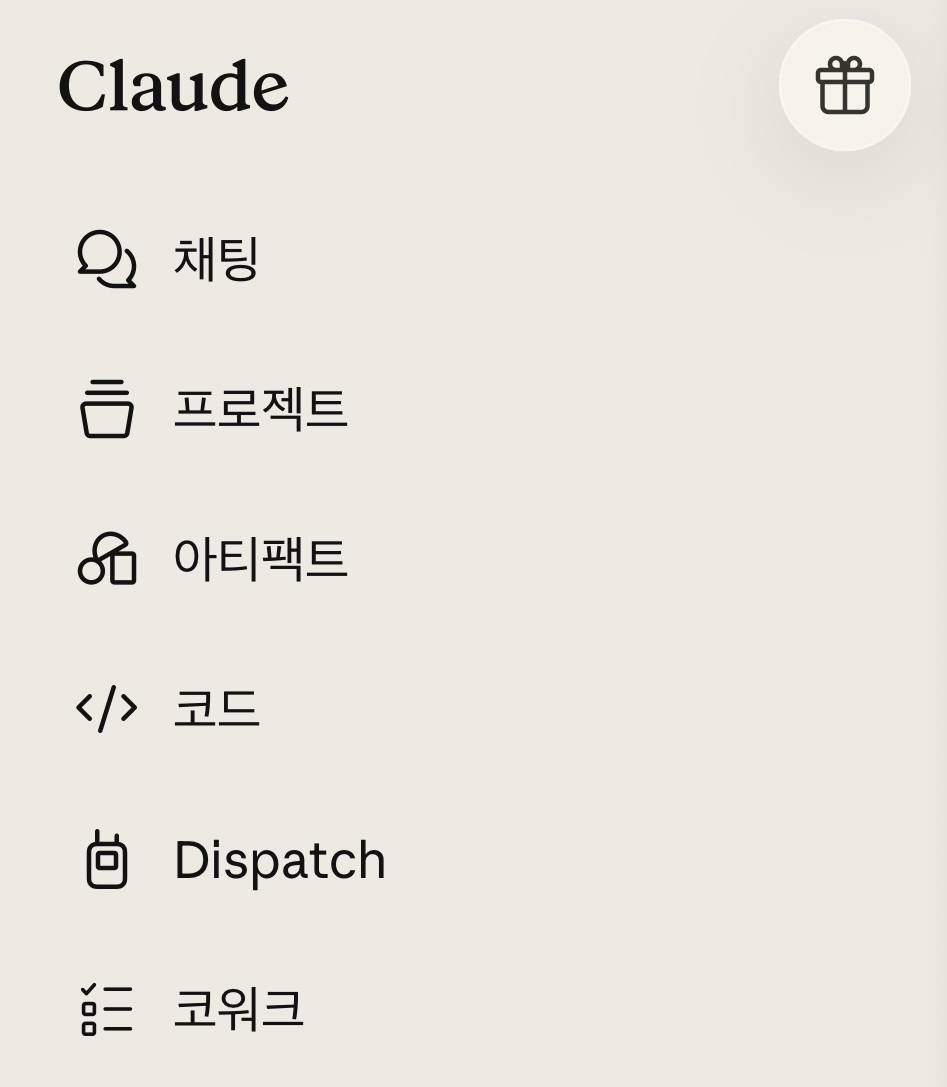
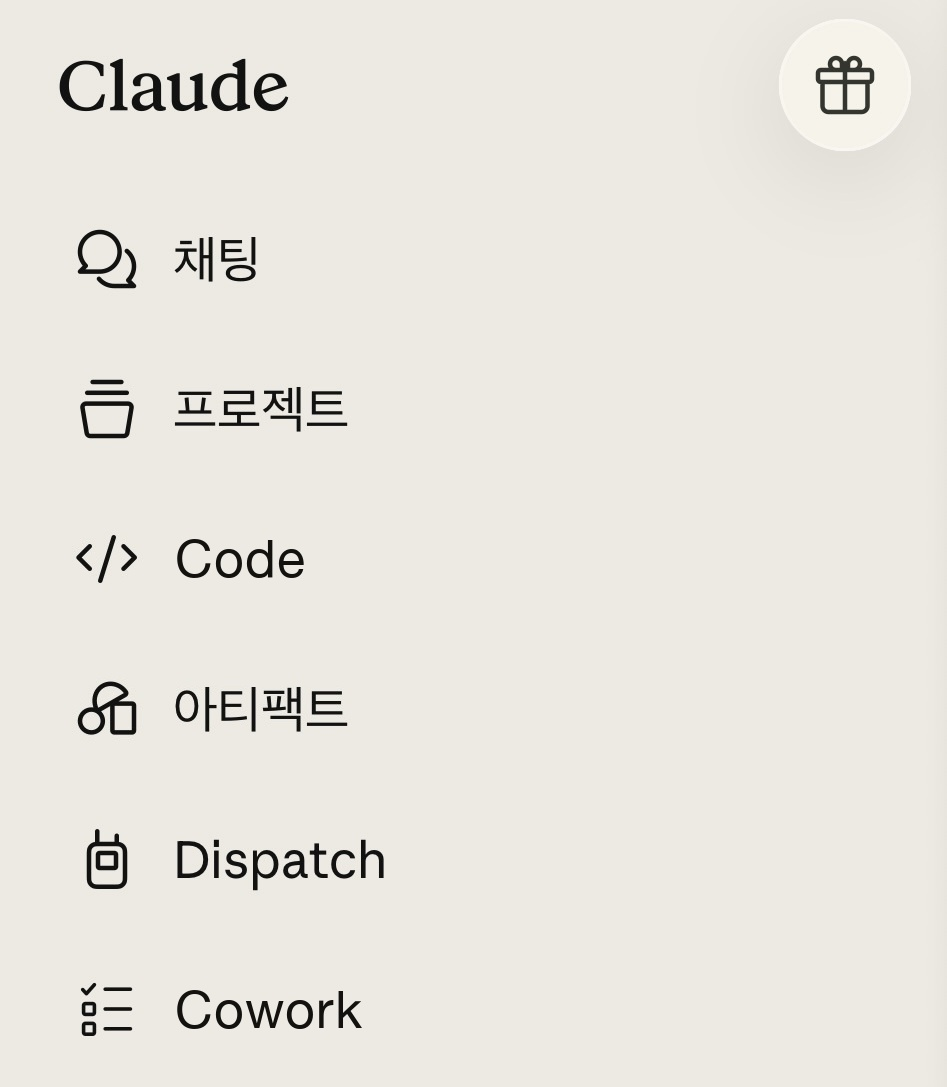
claude-mobile 메뉴 순서를 채팅·프로젝트·Code·아티팩트·Dispatch·Cowork로 변경, 메뉴 캡처 재구성

diff --git a/docs/claude-mobile.html b/docs/claude-mobile.html
@@ -16,7 +16,7 @@
     <meta name="twitter:description" content="비즈니스 리더를 위한 Claude·ChatGPT 완전 정복. 프롬프트에서 하네스·루프까지, 대화를 실행으로 바꾸는 5단계. Hermes까지 다루는 실전 가이드">
     <meta name="twitter:image" content="https://airoasting.github.io/claude_guide/assets/thumbnails/thumbnail.png">
     <title>스마트폰에서 Claude 쓰기 | AI ROASTING</title>
-    <meta name="description" content="Claude 모바일 앱의 채팅·프로젝트·아티팩트·코드·Dispatch·코워크 여섯 메뉴를 한 장으로 정리했습니다. 스마트폰에서 일을 맡기고 결과만 받는 방법.">
+    <meta name="description" content="Claude 모바일 앱의 채팅·프로젝트·Code·아티팩트·Dispatch·Cowork 여섯 메뉴를 한 장으로 정리했습니다. 스마트폰에서 일을 맡기고 결과만 받는 방법.">
     <style>
         @font-face {
             font-family: 'Pretendard';
@@ -1806,7 +1806,7 @@
     </a>
     <a href="#sec-code" data-sec="sec-code">
         <span class="sm-num">3</span>
-        <span class="sm-title">코드</span>
+        <span class="sm-title">Code</span>
         <span class="sm-sub">클라우드·원격</span>
     </a>
     <a href="#sec-dispatch" data-sec="sec-dispatch">
@@ -1816,7 +1816,7 @@
     </a>
     <a href="#sec-cowork" data-sec="sec-cowork">
         <span class="sm-num">5</span>
-        <span class="sm-title">코워크</span>
+        <span class="sm-title">Cowork</span>
         <span class="sm-sub">데스크톱</span>
     </a>
     <a href="#sec-choose" data-sec="sec-choose">
@@ -1839,11 +1839,11 @@
             <div class="map-shot">
                 <div class="map-shot-frame">
                     <div class="map-shot-img">
-                        <img src="assets/img/ui/claude_app_site.jpeg" alt="Claude 앱 메뉴. 위에서부터 채팅, 프로젝트, 아티팩트, 코드, Dispatch, 코워크" style="display:block;width:100%;height:auto;">
+                        <img src="assets/img/ui/claude_app_site.jpeg" alt="Claude 앱 메뉴. 위에서부터 채팅, 프로젝트, Code, 아티팩트, Dispatch, Cowork" style="display:block;width:100%;height:auto;">
                         <span class="map-mark" data-key="chat" style="top:19.33%;"></span>
                         <span class="map-mark" data-key="project" style="top:33.49%;"></span>
-                        <span class="map-mark" data-key="artifact" style="top:46.88%;"></span>
-                        <span class="map-mark" data-key="code" style="top:60.59%;"></span>
+                        <span class="map-mark" data-key="artifact" style="top:60.59%;"></span>
+                        <span class="map-mark" data-key="code" style="top:46.88%;"></span>
                         <span class="map-mark" data-key="dispatch" style="top:74.75%;"></span>
                         <span class="map-mark" data-key="cowork" style="top:88.51%;"></span>
                     </div>
@@ -1864,18 +1864,18 @@
                         <p>지침과 참고 자료를 등록해 동일한 조건으로 작업을 반복하는 공간입니다. 설정 방법은 <a href="project-intro.html">프로젝트 만들기</a>에 있습니다.</p>
                     </div>
                 </div>
+                <div class="map-item" data-key="code">
+                    <span class="map-item-icon"><i class="ico-shot" data-key="code" aria-hidden="true"></i></span>
+                    <div class="map-item-body">
+                        <h4>Code</h4>
+                        <p>프로그램을 작성하고 수정하는 작업을 맡기는 탭입니다.</p>
+                    </div>
+                </div>
                 <div class="map-item" data-key="artifact">
                     <span class="map-item-icon"><i class="ico-shot" data-key="artifact" aria-hidden="true"></i></span>
                     <div class="map-item-body">
                         <h4>아티팩트</h4>
                         <p>Claude가 생성한 문서와 표, 웹 도구가 저장되는 공간입니다. 제작 실습은 <a href="vibe-coding-tasks.html#task5">실전 과제 5번</a>에 있습니다.</p>
-                    </div>
-                </div>
-                <div class="map-item" data-key="code">
-                    <span class="map-item-icon"><i class="ico-shot" data-key="code" aria-hidden="true"></i></span>
-                    <div class="map-item-body">
-                        <h4>코드</h4>
-                        <p>프로그램을 작성하고 수정하는 작업을 맡기는 탭입니다.</p>
                     </div>
                 </div>
                 <div class="map-item" data-key="dispatch">
@@ -1888,7 +1888,7 @@
                 <div class="map-item" data-key="cowork">
                     <span class="map-item-icon"><i class="ico-shot" data-key="cowork" aria-hidden="true"></i></span>
                     <div class="map-item-body">
-                        <h4>코워크</h4>
+                        <h4>Cowork</h4>
                         <p>데스크톱 앱이 컴퓨터의 파일을 직접 열어 처리합니다.</p>
                     </div>
                 </div>
@@ -1897,14 +1897,14 @@
 
         <div class="tip-box" style="margin-top:22px;">
             <div class="tip-label"><svg class="ico" viewBox="0 0 24 24" fill="none" stroke="currentColor" stroke-width="1.9" stroke-linecap="round" stroke-linejoin="round"><path d="M9.3 18.2h5.4"/><path d="M10.3 21h3.4"/><path d="M12 3.2a5.9 5.9 0 0 0-3.5 10.7c.5.4.8.9.9 1.5l.1.6h5l.1-.6c.1-.6.4-1.1.9-1.5A5.9 5.9 0 0 0 12 3.2z"/></svg> 여섯 개는 두 종류로 나뉩니다</div>
-            <p>채팅, 프로젝트, 아티팩트는 <strong>스마트폰에서 완결되는 기능</strong>입니다. 코드, Dispatch, 코워크는 <strong>컴퓨터에서 실행되는 작업을 스마트폰에서 확인하는 기능</strong>입니다.</p>
+            <p>채팅, 프로젝트, 아티팩트는 <strong>스마트폰에서 완결되는 기능</strong>입니다. Code, Dispatch, Cowork는 <strong>컴퓨터에서 실행되는 작업을 스마트폰에서 확인하는 기능</strong>입니다.</p>
         </div>
     </div>
 
     <!-- 2. 네 개 메뉴 비교 -->
     <div class="step-divider content-section"><span class="step-badge">네 개 메뉴 비교</span></div>
     <div id="sec-compare" class="nm-card content-section reveal">
-        <h2>채팅, 코드, Dispatch, 코워크 비교</h2>
+        <h2>채팅, Code, Dispatch, Cowork 비교</h2>
 
         <div class="cmp-board">
             <div class="cmp-rail-top" aria-hidden="true"></div>
@@ -1923,7 +1923,7 @@
             <div class="cmp-cell" data-tool="chat" data-row="한계">업로드한 파일만 참조합니다. <b>컴퓨터 폴더에는 접근하지 못합니다</b></div>
             <div class="cmp-cell is-pick" data-tool="chat" data-row="이럴 때 고르세요"><b>답변 하나</b>가 즉시 필요할 때</div>
             <div class="cmp-cell" data-tool="chat" data-row="처음 공개된 날">2023년 7월 11일<br><span style="color:#8A8580;">claude.ai 웹에서 먼저</span></div>
-            <div class="cmp-head" data-tool="code"><span class="cmp-head-top"><span class="cmp-head-ico"><i class="ico-shot" data-key="code" aria-hidden="true"></i></span><span class="cmp-head-name">코드</span></span><span class="cmp-head-role">작성과 수정</span></div>
+            <div class="cmp-head" data-tool="code"><span class="cmp-head-top"><span class="cmp-head-ico"><i class="ico-shot" data-key="code" aria-hidden="true"></i></span><span class="cmp-head-name">Code</span></span><span class="cmp-head-role">작성과 수정</span></div>
             <div class="cmp-cell" data-tool="code" data-row="요금제"><b>유료 플랜 전체.</b> 다만, 내 컴퓨터 쪽은 Team·Enterprise에서 관리자 허용이 필요합니다</div>
             <div class="cmp-cell" data-tool="code" data-row="컴퓨터를 켜 둬야 하나"><b>실행 위치에 따라 다릅니다.</b> 내 컴퓨터에서 실행하면 켜 둬야 하고, 앤트로픽 클라우드에서 실행하면 꺼도 됩니다</div>
             <div class="cmp-cell" data-tool="code" data-row="이런 일에">프로그램 작성, 버그 수정, 저장소 업로드와 배포</div>
@@ -1939,7 +1939,7 @@
             <div class="cmp-cell" data-tool="dispatch" data-row="한계">화면을 직접 조작하는 기능은 아직 미리보기 단계입니다</div>
             <div class="cmp-cell is-pick" data-tool="dispatch" data-row="이럴 때 고르세요"><b>자리를 비울 때</b></div>
             <div class="cmp-cell" data-tool="dispatch" data-row="처음 공개된 날">2026년 3월 23일<br><span style="color:#8A8580;">처음부터 스마트폰용</span></div>
-            <div class="cmp-head" data-tool="cowork"><span class="cmp-head-top"><span class="cmp-head-ico"><i class="ico-shot" data-key="cowork" aria-hidden="true"></i></span><span class="cmp-head-name">코워크</span></span><span class="cmp-head-role">파일 작업 위임</span></div>
+            <div class="cmp-head" data-tool="cowork"><span class="cmp-head-top"><span class="cmp-head-ico"><i class="ico-shot" data-key="cowork" aria-hidden="true"></i></span><span class="cmp-head-name">Cowork</span></span><span class="cmp-head-role">파일 작업 위임</span></div>
             <div class="cmp-cell" data-tool="cowork" data-row="요금제"><b>유료 플랜 전체</b> (Pro·Max·Team·Enterprise)</div>
             <div class="cmp-cell" data-tool="cowork" data-row="컴퓨터를 켜 둬야 하나"><b>예.</b> 데스크톱 앱이 실행 중이어야 합니다</div>
             <div class="cmp-cell" data-tool="cowork" data-row="이런 일에">폴더에 누적된 파일 정리, 표 작성, 수작업이 많은 반복 업무</div>
@@ -1951,10 +1951,10 @@
 
     </div>
 
-    <!-- 3. 코드 -->
-    <div class="step-divider content-section"><span class="step-badge">코드 탭, 두 가지 방식</span></div>
+    <!-- 3. Code -->
+    <div class="step-divider content-section"><span class="step-badge">Code 탭, 두 가지 방식</span></div>
     <div id="sec-code" class="nm-card content-section reveal">
-        <h2>코드 탭은 작업을 실행할 컴퓨터만 선택하면 됩니다</h2>
+        <h2>Code 탭은 작업을 실행할 컴퓨터만 선택하면 됩니다</h2>
 
         <div class="cmp-board cols-2">
             <div class="cmp-rail-top" aria-hidden="true"></div>
@@ -1968,7 +1968,7 @@
             <div class="cmp-cell" data-row="언제 쓰나">내 컴퓨터의 파일이나 사내 도구, 외부 연결(MCP)이 필요할 때</div>
             <div class="cmp-cell" data-row="컴퓨터를 꺼도 되나"><b>컴퓨터가 반드시 켜져 있어야 합니다</b></div>
             <div class="cmp-head"><span class="cmp-head-top"><span class="cmp-head-name">클라우드 세션</span></span><span class="cmp-head-role">앤트로픽 클라우드에서 실행</span></div>
-            <div class="cmp-cell" data-row="시작하는 법">claude.ai/code에서 GitHub를 연결하고 환경을 한 번 만든 뒤, 코드 탭에서 저장소를 선택하고 작업을 입력합니다</div>
+            <div class="cmp-cell" data-row="시작하는 법">claude.ai/code에서 GitHub를 연결하고 환경을 한 번 만든 뒤, Code 탭에서 저장소를 선택하고 작업을 입력합니다</div>
             <div class="cmp-cell" data-row="일이 도는 곳">앤트로픽이 운영하는 서버</div>
             <div class="cmp-cell" data-row="언제 쓰나">저장소가 GitHub에 있을 때</div>
             <div class="cmp-cell" data-row="컴퓨터를 꺼도 되나"><b>컴퓨터가 꺼져도 계속 진행 가능합니다</b></div>
@@ -1979,7 +1979,7 @@
         <div class="shot-split">
             <div class="shot-frame">
                 <div class="shot-img">
-                    <img src="assets/img/ui/claude_app_code_site.jpeg" alt="Claude 앱 코드 탭 화면. 위에 환경 이름 Default, 제안 프롬프트 세 개, GitHub 저장소 칩, 입력창, 아래에 모델과 권한 모드">
+                    <img src="assets/img/ui/claude_app_code_site.jpeg" alt="Claude 앱 Code 탭 화면. 위에 환경 이름 Default, 제안 프롬프트 세 개, GitHub 저장소 칩, 입력창, 아래에 모델과 권한 모드">
                     <span class="shot-mark" data-key="1" style="top:3.6%;height:7.2%;left:38.0%;width:24.5%;"></span>
                     <span class="shot-mark" data-key="2" style="top:65.6%;height:7.8%;left:3.0%;width:65.0%;"></span>
                     <span class="shot-mark" data-key="3" style="top:77.6%;height:8.8%;left:3.0%;width:94.0%;"></span>
@@ -2014,7 +2014,7 @@
             <ul class="check-list">
                 <li><b>터미널 전용 명령은 사용할 수 없습니다.</b> <code>/plugin</code>, <code>/resume</code>처럼 터미널에서만 실행되는 명령은 앱에서 동작하지 않습니다.</li>
                 <li><b>권한 모드는 세션에 따라 선택 범위가 다릅니다.</b> 리모트 컨트롤은 수동·수정 수락·계획, 클라우드 세션은 수정 수락·계획·자동입니다. 터미널에만 있는 '권한 무시'는 앱에서 고를 수 없습니다.</li>
-                <li><b>코드 탭이 표시되지 않으면 요금제 문제입니다.</b> 개인 계정은 요금제를 상향해야 하고, 회사 계정이면 관리자에게 이 기능을 열어 달라고 요청해야 합니다.</li>
+                <li><b>Code 탭이 표시되지 않으면 요금제 문제입니다.</b> 개인 계정은 요금제를 상향해야 하고, 회사 계정이면 관리자에게 이 기능을 열어 달라고 요청해야 합니다.</li>
             </ul>
         </div>
 
@@ -2040,7 +2040,7 @@
 
         <div class="inset-box" style="margin-top:22px;">
             <strong>배정은 Claude가 합니다</strong>
-            <p>코드를 수정하는 작업은 클로드 코드로, 문서와 자료를 다루는 작업은 코워크로 자동 배정됩니다. 과정은 생략되고 <b>결과만 메시지로 전달됩니다.</b> 표, 메모, 비교 자료 등입니다. 작업이 끝나거나 승인이 필요하면 알림이 옵니다.</p>
+            <p>코드를 수정하는 작업은 클로드 코드로, 문서와 자료를 다루는 작업은 Cowork로 자동 배정됩니다. 과정은 생략되고 <b>결과만 메시지로 전달됩니다.</b> 표, 메모, 비교 자료 등입니다. 작업이 끝나거나 승인이 필요하면 알림이 옵니다.</p>
         </div>
 
         <h3 style="margin-top:26px;">설정 순서</h3>
@@ -2081,7 +2081,7 @@
             <div class="trouble-label">사용 전 확인 사항</div>
             <ul class="check-list">
                 <li><b>Pro 또는 Max 요금제여야 합니다.</b> Team과 Enterprise에서는 Dispatch를 쓸 수 없습니다.</li>
-                <li><b>컴퓨터가 깨어 있고 데스크톱 앱이 열려 있어야 합니다.</b> 작업이 클라우드가 아니라 내 컴퓨터에서 실행되기 때문입니다. 컴퓨터를 꺼야 한다면 코드 탭의 클라우드 세션을 사용합니다.</li>
+                <li><b>컴퓨터가 깨어 있고 데스크톱 앱이 열려 있어야 합니다.</b> 작업이 클라우드가 아니라 내 컴퓨터에서 실행되기 때문입니다. 컴퓨터를 꺼야 한다면 Code 탭의 클라우드 세션을 사용합니다.</li>
                 <li><b>화면을 직접 조작하는 기능은 미리보기 단계입니다.</b> 연결 통로가 없는 프로그램을 다룰 때만 쓰고, Pro와 Max에서만 제공됩니다.</li>
                 <li><b>대화는 하나로 유지됩니다.</b> Dispatch 안에서 별도 대화를 새로 만들 수는 없고, 작업이 한 대화에 누적됩니다.</li>
             </ul>
@@ -2089,21 +2089,21 @@
 
     </div>
 
-    <!-- 4. 코워크 -->
-    <div class="step-divider content-section"><span class="step-badge">코워크</span></div>
+    <!-- 4. Cowork -->
+    <div class="step-divider content-section"><span class="step-badge">Cowork</span></div>
     <div id="sec-cowork" class="nm-card content-section reveal">
-        <h2>코워크는 컴퓨터의 파일을 직접 열어 처리합니다</h2>
-        <p>채팅은 답변을 제시하고 종료됩니다. 코워크는 데스크톱 앱이 내 컴퓨터의 파일을 직접 열어 정리하고, 결과물을 파일로 만들어 둡니다. 2026년 4월 9일 맥과 윈도우에 정식 제공됐습니다.</p>
-        <p style="margin-top:10px;">스마트폰의 코워크 메뉴는 컴퓨터에서 실행 중인 작업을 확인하는 화면입니다. 스마트폰에서 새로 시킬 때는 Dispatch를 씁니다.</p>
+        <h2>Cowork는 컴퓨터의 파일을 직접 열어 처리합니다</h2>
+        <p>채팅은 답변을 제시하고 종료됩니다. Cowork는 데스크톱 앱이 내 컴퓨터의 파일을 직접 열어 정리하고, 결과물을 파일로 만들어 둡니다. 2026년 4월 9일 맥과 윈도우에 정식 제공됐습니다.</p>
+        <p style="margin-top:10px;">스마트폰의 Cowork 메뉴는 컴퓨터에서 실행 중인 작업을 확인하는 화면입니다. 스마트폰에서 새로 시킬 때는 Dispatch를 씁니다.</p>
 
         <div class="inset-box" style="margin-top:18px;">
-            <strong>코워크와 클로드 코드 중 무엇을 고를 것인가</strong>
-            <p>선택하지 않아도 됩니다. Dispatch에 맡기면 자료를 정리하는 작업은 코워크로, 코드를 수정하는 작업은 클로드 코드로 Claude가 배정합니다.</p>
+            <strong>Cowork와 클로드 코드 중 무엇을 고를 것인가</strong>
+            <p>선택하지 않아도 됩니다. Dispatch에 맡기면 자료를 정리하는 작업은 Cowork로, 코드를 수정하는 작업은 클로드 코드로 Claude가 배정합니다.</p>
         </div>
 
         <div class="tip-box" style="margin-top:18px;">
             <div class="tip-label"><svg class="ico" viewBox="0 0 24 24" fill="none" stroke="currentColor" stroke-width="1.9" stroke-linecap="round" stroke-linejoin="round"><path d="M9.3 18.2h5.4"/><path d="M10.3 21h3.4"/><path d="M12 3.2a5.9 5.9 0 0 0-3.5 10.7c.5.4.8.9.9 1.5l.1.6h5l.1-.6c.1-.6.4-1.1.9-1.5A5.9 5.9 0 0 0 12 3.2z"/></svg> 노코드로 시작한다면</div>
-            <p>코워크와 클로드 코드는 둘 다 파일을 직접 다룹니다. 터미널 없이 시작하는 방법은 <a href="vibe-coding-101.html">바이브 코딩 101</a>에 정리돼 있습니다.</p>
+            <p>Cowork와 클로드 코드는 둘 다 파일을 직접 다룹니다. 터미널 없이 시작하는 방법은 <a href="vibe-coding-101.html">바이브 코딩 101</a>에 정리돼 있습니다.</p>
         </div>
     </div>
 
@@ -2127,8 +2127,8 @@
 
         <h3 style="margin-top:28px;">선택 기준</h3>
         <ol class="step-list">
-            <li><div><strong>컴퓨터를 꺼 둬야 하나요?</strong><br>그렇다면 코드 탭의 클라우드 세션뿐입니다. 나머지 둘은 내 컴퓨터가 켜져 있어야 합니다.</div></li>
-            <li><div><strong>코드를 수정하는 작업인가요?</strong><br>맞으면 코드 탭, 아니면 Dispatch입니다. 판단이 어려우면 Dispatch에 맡겨 Claude가 배정하게 합니다.</div></li>
+            <li><div><strong>컴퓨터를 꺼 둬야 하나요?</strong><br>그렇다면 Code 탭의 클라우드 세션뿐입니다. 나머지 둘은 내 컴퓨터가 켜져 있어야 합니다.</div></li>
+            <li><div><strong>코드를 수정하는 작업인가요?</strong><br>맞으면 Code 탭, 아니면 Dispatch입니다. 판단이 어려우면 Dispatch에 맡겨 Claude가 배정하게 합니다.</div></li>
             <li><div><strong>Claude가 열 수 없는 프로그램인가요?</strong><br>연결 통로가 없는 프로그램이라면 컴퓨터 사용을 켭니다. 화면을 직접 조작하는 방식이라 느리고 오류 가능성이 있으므로 마지막 선택지로 둡니다.</div></li>
         </ol>
 
@@ -2148,7 +2148,7 @@
         </div>
         <div class="inset-box">
             <strong>Q. 컴퓨터를 꺼 두고 스마트폰으로만 일을 시킬 수 있나요?</strong>
-            <p>코드 탭의 클라우드 세션은 가능합니다. Dispatch와 리모트 컨트롤은 내 컴퓨터에서 실행되므로 컴퓨터가 켜져 있어야 합니다.</p>
+            <p>Code 탭의 클라우드 세션은 가능합니다. Dispatch와 리모트 컨트롤은 내 컴퓨터에서 실행되므로 컴퓨터가 켜져 있어야 합니다.</p>
         </div>
         <div class="inset-box">
             <strong>Q. 정해진 시각에 자동으로 실행하고 싶습니다.</strong>
@@ -2177,7 +2177,7 @@
 </footer>
 
 <script>
-// ── 코드 탭 화면 설명: 오른쪽 항목에 올리면 왼쪽 캡처의 해당 영역에 테두리 ──
+// ── Code 탭 화면 설명: 오른쪽 항목에 올리면 왼쪽 캡처의 해당 영역에 테두리 ──
 (function(){
     var split = document.querySelector('.shot-split');
     if (!split) return;
